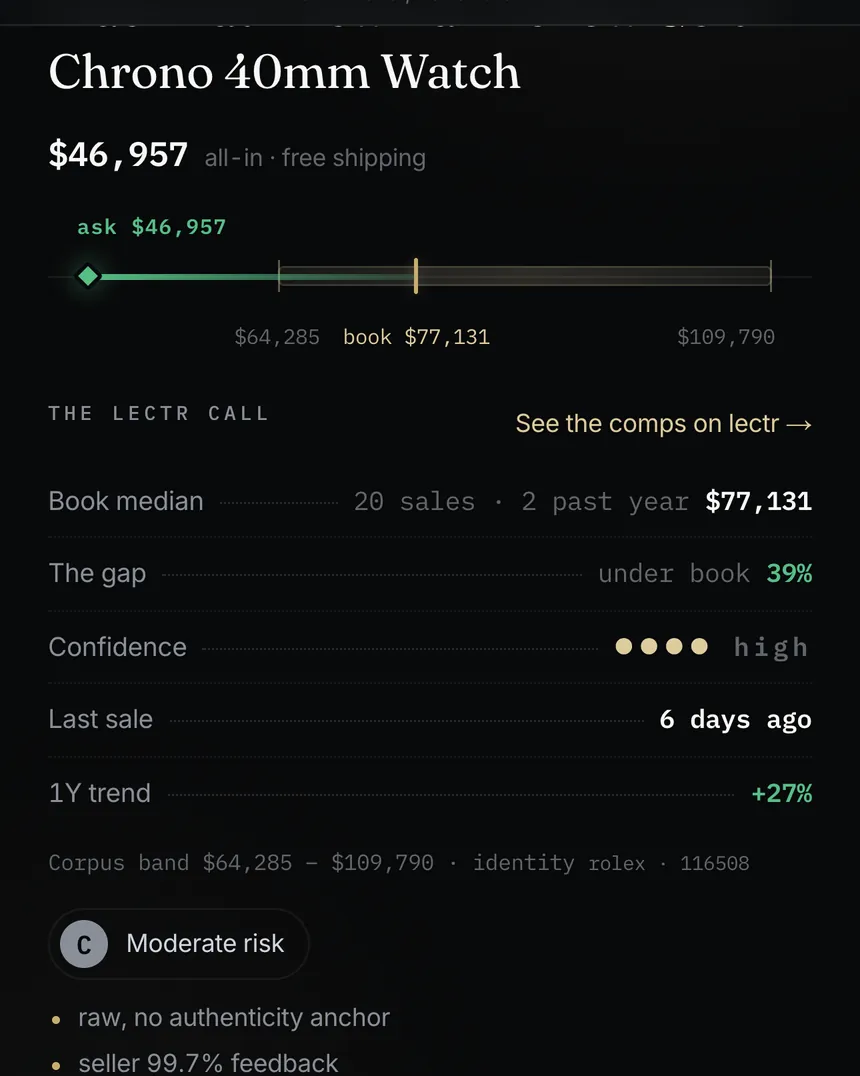
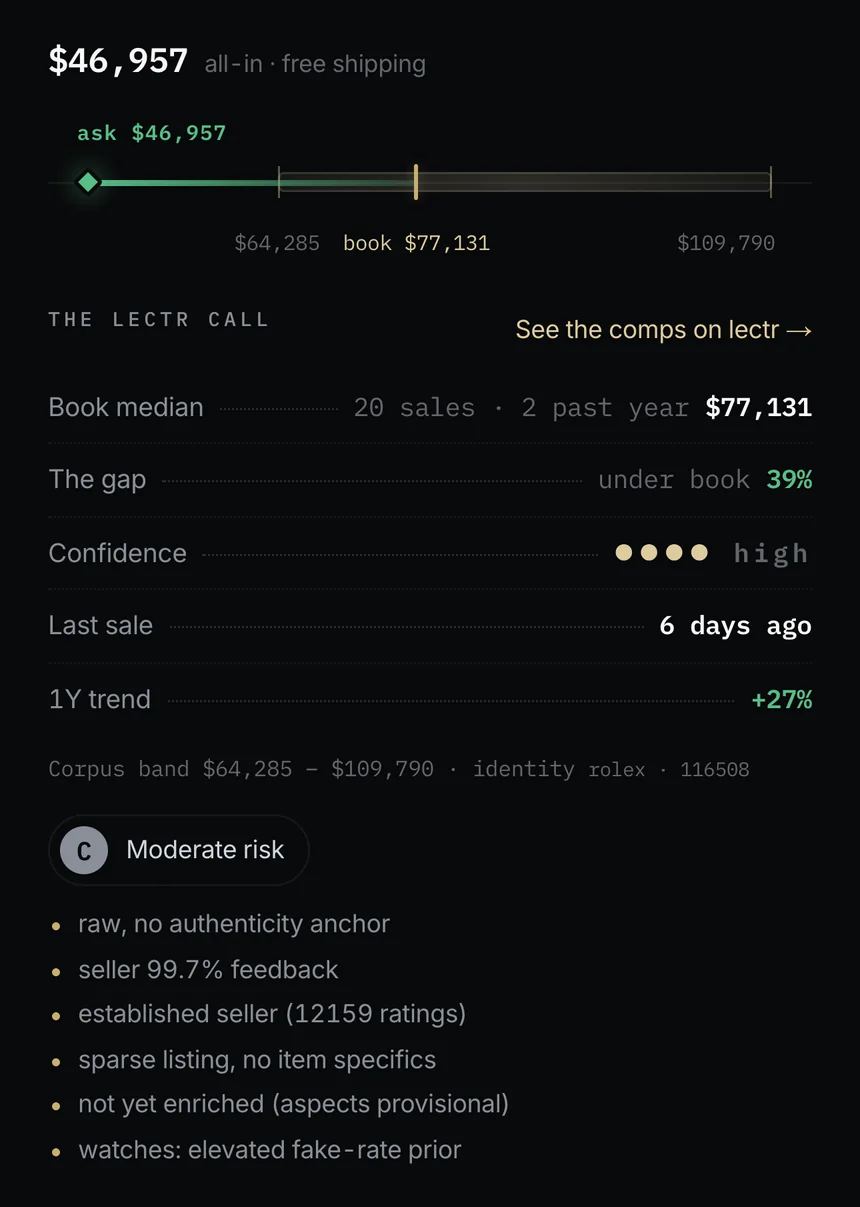
v3b fin-new: Stilwell Farms and Starling on the plate grammar
farms: hero plate (one farm at four dates, native pixels), every game picture a --col/--wide plate on the game's dark ground at whole pixel multiples, no seam overlay, each image once, player 4x/3x/2x aligned to the column, 44px+ touch controls, section chip put away while the ROM runs, the call with spec rows.
starling: deal, tape and phone plates recaptured from the Nov 14 public snapshot and cropped on clean boundaries, one plate rhythm, captions bound, comma numerals loosened, spec rows under the call.

diff --git a/farms.html b/farms.html
@@ -36,8 +36,8 @@
 <main id="main" class="page cs case farms">
   <div class="mhead rv"><canvas class="matrix" data-text="Stilwell Farms" data-src="assets/farms.svg" aria-label="A cartridge, a handheld and three sprouts, drawn in the line screen" role="img"></canvas></div>
   <p class="eyebrow rv"><a href="digital.html">Digital</a> · <a href="https://github.com/stilwellc/stilwell-farms" target="_blank" rel="noopener">Stilwell Farms on GitHub ↗</a></p>
-  <h1 class="display rv d1">A farm that’s yours to design,<br> on a Game Boy Color cartridge.</h1>
-  <p class="lede rv d2">Stilwell Farms is an original world-building farm game for the Game Boy Color, written in C with GBDK-2020 and made for the ModRetro Chromatic.</p>
+  <h1 class="display rv d1">A farm that’s yours to design,<br> on a Game&nbsp;Boy&nbsp;Color cartridge.</h1>
+  <p class="lede rv d2">Stilwell Farms is an original world-building farm game for the Game&nbsp;Boy&nbsp;Color, written in C with GBDK-2020 and made for the ModRetro Chromatic.</p>
 
   <div class="facts rv d3">
     <div><div class="n">64</div><div class="l">plots to buy<span class="sub">one 64 × <span class="nw">64-tile</span> valley</span></div></div>
@@ -46,13 +46,15 @@
     <div><div class="n">69</div><div class="l">scripted tests<span class="sub">the ROM, played headless</span></div></div>
   </div>
 
+  <figure class="plate wide px rv d3"><div class="pxb one"><picture><source media="(min-width: 1056px)" srcset="assets/farms/hero.webp" width="928" height="568"><img src="assets/farms/hero-phone.webp" width="320" height="400" alt="The same farm from above at four points: an overgrown shack on day 1, the first radishes and strawberries on spring 5, a big house, a windmill and fenced fields on summer 9, and rows of pumpkins on fall 11" decoding="async"></picture></div><figcaption><span class="nw">One farm ·</span> <span class="nw">day 1, spring 5,</span> <span class="nw">summer 9, fall 11</span></figcaption></figure>
+
   <section class="sec" id="game">
     <div class="k">the game</div>
     <div>
       <h2>Clear it, plant it, build it, then build up the town.</h2>
-      <p>Grandpa left you an overgrown farm in the middle of a valley. You clear it, plant fourteen crops across four seasons, raise cows, hens and sheep, put every building, fence and path where you want it, and buy the valley one plot at a time.</p>
-      <figure class="gbc" id="gbc" data-rom="assets/farms/stilwell_farms.gbc" data-core="assets/vendor/binjgb/binjgb.js">
-        <div class="gbc-screen" id="gbc-screen">
+      <p>Grandpa left you an overgrown farm in the middle of a valley. You clear it, plant fourteen crops across four seasons, raise cows, hens and sheep, put every building, fence and path where you want it, and buy the valley one plot at a&nbsp;time.</p>
+      <figure class="plate px gbc" id="gbc" data-rom="assets/farms/stilwell_farms.gbc" data-core="assets/vendor/binjgb/binjgb.js">
+        <div class="pxb one gbc-screen" id="gbc-screen">
           <img class="gbc-poster" src="assets/farms/poster.png" width="160" height="144" alt="The Stilwell Farms title screen: a farmhouse, a red barn and a row of crops under a wooden sign">
           <canvas id="gbc-canvas" width="160" height="144" aria-label="Stilwell Farms, running" role="img" hidden></canvas>
           <button class="pill solid gbc-play" id="gbc-play" type="button">Play it here</button>
@@ -62,10 +64,8 @@
           <div class="gbc-ab"><button type="button" data-joy="B" aria-label="B">B</button><button type="button" data-joy="A" aria-label="A">A</button></div>
           <div class="gbc-ss"><button type="button" data-joy="select">Select</button><button type="button" data-joy="start">Start</button></div>
         </div>
-        <div class="gbc-bar">
-          <ul class="gbc-keys" aria-label="Keyboard controls"><li><kbd>←</kbd><kbd>↑</kbd><kbd>↓</kbd><kbd>→</kbd><span>D-pad</span></li><li><kbd>X</kbd><span>A</span></li><li><kbd>Z</kbd><span>B</span></li><li><kbd>Enter</kbd><span>Start</span></li><li><kbd>Shift</kbd><span>Select</span></li></ul>
-        </div>
-        <figcaption><span class="t"><span id="gbc-state" aria-live="polite">The released ROM, in the page</span> · saves stay in this browser</span><span class="gbc-ctl" id="gbc-ctl" hidden><button class="pill" id="gbc-pause" type="button" aria-pressed="false">Pause</button><button class="pill" id="gbc-mute" type="button" aria-pressed="true">Sound</button></span></figcaption>
+        <figcaption><span class="t"><span class="nw"><span id="gbc-state" aria-live="polite">The released ROM, in the page</span> ·</span> <span class="nw">saves stay in this browser</span></span><span class="gbc-ctl" id="gbc-ctl" hidden><button class="pill" id="gbc-pause" type="button" aria-pressed="false">Pause</button><button class="pill" id="gbc-mute" type="button" aria-pressed="true">Sound</button></span></figcaption>
+        <ul class="gbc-keys" aria-label="Keyboard controls"><li><kbd>←</kbd><kbd>↑</kbd><kbd>↓</kbd><kbd>→</kbd><span>D-pad</span></li><li><kbd>X</kbd><span>A</span></li><li><kbd>Z</kbd><span>B</span></li><li><kbd>Enter</kbd><span>Start</span></li><li><kbd>Shift</kbd><span>Select</span></li></ul>
       </figure>
     </div>
   </section>
@@ -75,13 +75,16 @@
     <div>
       <h2>64 plots of woods, lakes, marsh, quarries and a river.</h2>
       <p>The farm is the middle of the valley. Every plot is for sale, from a rope line and a sign or from the valley map, which shows each plot by what grows on it.</p>
-      <figure class="px one"><img class="soft" src="assets/farms/maturity.webp" width="576" height="576" alt="The whole valley from above: an overgrown shack on day 1, the first fields in spring, a built-up farm in summer, pumpkins in fall, then the same farm after dark" loading="lazy"><figcaption>One farm · day 1 to fall 11, then after dark</figcaption></figure>
       <p>The design tools work like drawing. Hold A and walk to lay a path or a fence line in one stroke; SELECT swaps to the eraser and the build menu has undo. A swatch page recolours every roof, plank and stone on the farm, and a blueprint copies a corner and stamps it down anywhere, previewed as a ghost first.</p>
-      <div class="pxgrid">
-        <figure class="px"><img src="assets/farms/farming.webp" width="160" height="144" alt="Tilling, watering and sowing radishes, sleeping, then harvesting" loading="lazy"><figcaption>Till · water · sow · harvest</figcaption></figure>
-        <figure class="px"><img src="assets/farms/design.webp" width="160" height="144" alt="Recolouring roofs, painting a brick path, erasing a fence, undoing it and stamping a blueprint" loading="lazy"><figcaption>Colours · eraser · undo · blueprints</figcaption></figure>
-        <figure class="px"><img src="assets/farms/valley.webp" width="160" height="144" alt="The valley map page, with a plot across the river being bought" loading="lazy"><figcaption>The valley map</figcaption></figure>
-      </div>
+      <figure class="plate px">
+        <div class="pxb">
+          <img src="assets/farms/farming.webp" width="160" height="144" alt="Tilling, watering and sowing radishes, sleeping, then harvesting" loading="lazy">
+          <img src="assets/farms/building.webp" width="160" height="144" alt="Placing a windmill from its ghost, painting a picket fence and flowers, digging a pond" loading="lazy">
+          <img src="assets/farms/design.webp" width="160" height="144" alt="Recolouring roofs, painting a brick path, erasing a fence, undoing it and stamping a blueprint" loading="lazy">
+          <img src="assets/farms/valley.webp" width="160" height="144" alt="The valley map page, with a plot across the river being bought" loading="lazy">
+        </div>
+        <figcaption><span class="nw">Farming ·</span> <span class="nw">building ·</span> <span class="nw">the design tools ·</span> <span class="nw">the valley map</span></figcaption>
+      </figure>
       <ul>
         <li><span>Farming</span><span class="v">14 crops · 4 fruit trees · sprinklers</span></li>
         <li><span>Animals</span><span class="v">cows · hens · sheep · breeds and breeding</span></li>
@@ -94,19 +97,26 @@
     <div class="k">the town</div>
     <div>
       <h2>Eight businesses, six townsfolk, four festivals.</h2>
-      <p>The road south leads to a town. A boarded-up storefront becomes a Bakery, a Juice Bar, a Creamery or a Florist, stocked with what the farm grows; Market Street adds lots for a Brewery, a Winery, a Restaurant and an Inn. Six townsfolk keep daily routines and 24 heart scenes, every season has a festival minigame, and six restoration projects change the town for good.</p>
-      <div class="pxgrid">
-        <figure class="px"><img src="assets/farms/invest.webp" width="160" height="144" alt="Restyling a storefront, funding Square Paving, opening Market Street and building a brewery" loading="lazy"><figcaption>Storefronts · Market Street</figcaption></figure>
-        <figure class="px"><img src="assets/farms/festivals.webp" width="160" height="144" alt="An egg hunt, a koi derby, giant produce judging and a snowball fight" loading="lazy"><figcaption>A festival every season</figcaption></figure>
-        <figure class="px"><img src="assets/farms/mine.webp" width="160" height="144" alt="Breaking rocks in the mine, a ladder down, the lift to floor 20 and a ruby" loading="lazy"><figcaption>The mine · 20 floors</figcaption></figure>
-      </div>
+      <p>The road south leads to a town. A boarded-up storefront becomes a Bakery, a Juice Bar, a Creamery or a Florist, stocked with what the farm grows; Market Street adds lots for a Brewery, a Winery, a Restaurant and an Inn. Six townsfolk keep daily routines and 24 heart scenes, every season has a festival minigame, and six restoration projects change the town for&nbsp;good.</p>
+      <figure class="plate px">
+        <div class="pxb">
+          <img src="assets/farms/invest.webp" width="160" height="144" alt="Restyling a storefront, funding Square Paving, opening Market Street and building a brewery" loading="lazy">
+          <img src="assets/farms/townlife.webp" width="160" height="144" alt="Townsfolk walking to lunch, greetings, and Rosa’s first heart event" loading="lazy">
+          <img src="assets/farms/festivals.webp" width="160" height="144" alt="An egg hunt, a koi derby, giant produce judging and a snowball fight" loading="lazy">
+          <img src="assets/farms/mine.webp" width="160" height="144" alt="Breaking rocks in the mine, a ladder down, the lift to floor 20 and a ruby" loading="lazy">
+        </div>
+        <figcaption><span class="nw">Storefronts ·</span> <span class="nw">townsfolk ·</span> <span class="nw">festivals ·</span> <span class="nw">the mine</span></figcaption>
+      </figure>
       <p>The house, every farm building and every storefront can be rebuilt in one of four styles.</p>
-      <div class="pxgrid styles">
-        <figure class="px"><img src="assets/farms/style-classic.png" width="160" height="74" alt="A classic farmhouse with a red tile roof beside a red barn" loading="lazy"><figcaption>Classic</figcaption></figure>
-        <figure class="px"><img src="assets/farms/style-modern.png" width="160" height="74" alt="A modern house in dark steel and glass beside a dark barn with a white roofline" loading="lazy"><figcaption>Modern</figcaption></figure>
-        <figure class="px"><img src="assets/farms/style-cabin.png" width="160" height="74" alt="A log cabin with lit windows and a green roof beside a log barn" loading="lazy"><figcaption>Log Cabin</figcaption></figure>
-        <figure class="px"><img src="assets/farms/style-cottage.png" width="160" height="74" alt="A thatched cottage with a flower garden beside a thatched stone barn" loading="lazy"><figcaption>Storybook Cottage</figcaption></figure>
-      </div>
+      <figure class="plate px">
+        <div class="pxb styles">
+          <img src="assets/farms/style-classic.png" width="160" height="74" alt="A classic farmhouse with a red tile roof beside a red barn" loading="lazy">
+          <img src="assets/farms/style-modern.png" width="160" height="74" alt="A modern house in dark steel and glass beside a dark barn with a white roofline" loading="lazy">
+          <img src="assets/farms/style-cabin.png" width="160" height="74" alt="A log cabin with lit windows and a green roof beside a log barn" loading="lazy">
+          <img src="assets/farms/style-cottage.png" width="160" height="74" alt="A thatched cottage with a flower garden beside a thatched stone barn" loading="lazy">
+        </div>
+        <figcaption><span class="nw">Classic ·</span> <span class="nw">Modern ·</span> <span class="nw">Log Cabin ·</span> <span class="nw">Storybook Cottage</span></figcaption>
+      </figure>
       <ul>
         <li><span>Farmhands</span><span class="v">Waterer · Harvester · Rancher · Groundskeeper</span></li>
         <li><span>Cooking</span><span class="v">16 dishes</span></li>
@@ -120,12 +130,7 @@
     <div>
       <h2>512 background tiles at a time.</h2>
       <p>The Game Boy Color can show 512 background tiles at once. The game keeps all of its art on the cartridge and streams only the tiles on screen into video memory as the view scrolls, counting references to each one. That is how one cartridge holds hundreds of buildings, crops and decorations.</p>
-      <p>The 64 × 64 world, every cell’s ground, crop and decoration, lives in the cartridge’s battery-backed RAM, so the valley is saved exactly as it was left.</p>
-      <ul>
-        <li><span>Language</span><span class="v">C · GBDK-2020</span></li>
-        <li><span>Cartridge</span><span class="v">MBC5 · 512 KB ROM · 128 KB save RAM</span></li>
-        <li><span>Sound</span><span class="v">custom 4-channel driver · VBlank-driven</span></li>
-      </ul>
+      <p>The 64 × 64 world, every cell’s ground, crop and decoration, lives in the cartridge’s battery-backed RAM, so the valley is saved exactly as it was&nbsp;left.</p>
     </div>
   </section>
 
@@ -142,39 +147,39 @@
     <div>
       <h2>The ROM is played by script.</h2>
       <p>The test suite drives the ROM headless in PyBoy with pathfinding, memory inspection and screenshots, across 69 scripted scenarios. An economy model reads every price, yield and wage from the C sources and simulates three in-game years, and the suite checks the ROM against it.</p>
-      <div class="pxgrid">
-        <figure class="px"><img src="assets/farms/s-title.png" width="160" height="144" alt="The title screen" loading="lazy"><figcaption>Title screen</figcaption></figure>
-        <figure class="px"><img src="assets/farms/s-fall.png" width="160" height="144" alt="The farm in fall: rows of pumpkins beside a farm stand" loading="lazy"><figcaption>The farm in fall</figcaption></figure>
-        <figure class="px"><img src="assets/farms/s-map.png" width="160" height="144" alt="The valley map, 16 of 64 plots owned" loading="lazy"><figcaption>Valley map</figcaption></figure>
-        <figure class="px"><img src="assets/farms/s-market.png" width="160" height="144" alt="Market Street: a restaurant and the library on a paved street" loading="lazy"><figcaption>Market Street</figcaption></figure>
-        <figure class="px"><img src="assets/farms/s-heart.png" width="160" height="144" alt="Rosa speaking in a dialog box with her portrait" loading="lazy"><figcaption>A heart event</figcaption></figure>
-        <figure class="px"><img src="assets/farms/s-barn.png" width="160" height="144" alt="Inside the barn: the panel for Daisy, a Holstein cow" loading="lazy"><figcaption>Inside the barn</figcaption></figure>
-        <figure class="px"><img src="assets/farms/s-mine.png" width="160" height="144" alt="The mine on floor 20, with a ruby just dug up" loading="lazy"><figcaption>The mine, floor 20</figcaption></figure>
-        <figure class="px"><img src="assets/farms/s-beach.png" width="160" height="144" alt="Fishing off the pier at the beach" loading="lazy"><figcaption>The beach</figcaption></figure>
-        <figure class="px"><img src="assets/farms/s-recipes.png" width="160" height="144" alt="The recipe book, open at the omelet" loading="lazy"><figcaption>Recipe book</figcaption></figure>
-        <figure class="px"><img src="assets/farms/s-snowball.png" width="160" height="144" alt="The winter snowball fight minigame" loading="lazy"><figcaption>Snowball fight</figcaption></figure>
-        <figure class="px"><img src="assets/farms/s-colours.png" width="160" height="144" alt="The farm colours page: roofs, wood and stone swatches" loading="lazy"><figcaption>Farm colours</figcaption></figure>
-        <figure class="px"><img src="assets/farms/s-night.png" width="160" height="144" alt="The farm at night" loading="lazy"><figcaption>Night</figcaption></figure>
-      </div>
+      <figure class="plate px">
+        <div class="pxb stills">
+          <img src="assets/farms/s-fall.png" width="160" height="144" alt="The farm in fall: rows of pumpkins beside a farm stand" loading="lazy">
+          <img src="assets/farms/s-barn.png" width="160" height="144" alt="Inside the barn: the panel for Daisy, a Holstein cow" loading="lazy">
+          <img src="assets/farms/s-beach.png" width="160" height="144" alt="Fishing off the pier at the beach" loading="lazy">
+          <img src="assets/farms/s-night.png" width="160" height="144" alt="The farm at night" loading="lazy">
+        </div>
+        <figcaption><span class="nw">The farm in fall ·</span> <span class="nw">the barn ·</span> <span class="nw">the beach ·</span> <span class="nw">night</span></figcaption>
+      </figure>
       <ul>
         <li><span>Tests</span><span class="v">69 scripted scenarios · PyBoy</span></li>
         <li><span>Economy</span><span class="v">3 in-game years simulated</span></li>
-        <li><span>Releases</span><span class="v">v0.1 to v0.3 · Nov 14–15, 2026</span></li>
       </ul>
     </div>
   </section>
 
-  <section class="sec" id="cartridge">
-    <div class="k">the cartridge</div>
+  <section class="sec" id="call">
+    <div class="k">the call</div>
     <div>
       <h2>It runs on the hardware.</h2>
       <div class="cart">
         <img src="assets/farms/cartridge.webp" width="647" height="727" alt="The Stilwell Farms cartridge: a clear purple shell with the title screen on its label" loading="lazy">
         <div>
-          <p>The ROM installs on a ModRetro Chromatic, writes to any MBC5 flash cartridge with RAM and a battery for a Game Boy Color, and opens in any Game Boy Color emulator, such as SameBoy or mGBA.</p>
-          <p class="fine">Stilwell Farms is an independent, original fan project made for the ModRetro Chromatic. It is not affiliated with or endorsed by ModRetro, OpenAI or Nintendo. Game Boy and Game Boy Color are trademarks of Nintendo.</p>
+          <p>The ROM installs on a ModRetro Chromatic, writes to any MBC5 flash cartridge with RAM and a battery for a Game Boy Color, and opens in any Game Boy Color emulator, such as SameBoy or&nbsp;mGBA.</p>
+          <p class="fine">Stilwell Farms is an independent, original fan project made for the ModRetro Chromatic. It is not affiliated with or endorsed by ModRetro, OpenAI or Nintendo. Game Boy and Game Boy Color are trademarks of&nbsp;Nintendo.</p>
         </div>
       </div>
+      <ul>
+        <li><span>Language</span><span class="v">C · GBDK-2020</span></li>
+        <li><span>Cartridge</span><span class="v">MBC5 · 512 KB ROM · 128 KB save RAM</span></li>
+        <li><span>Sound</span><span class="v">custom 4-channel driver · VBlank-driven</span></li>
+        <li><span>Releases</span><span class="v">v0.1 to v0.3 · Nov 14–15, 2026</span></li>
+      </ul>
     </div>
   </section>
 

diff --git a/site.css b/site.css
@@ -1321,79 +1321,81 @@ body .repos .cell .foot { padding-top: 0.5rem; }
 /* ==== /v3:digital ==== */
 
 /* ==== v3:farms ==== */
-/* pixel art is shown at whole multiples of the Game Boy Color's 160 × 144 and never smoothed */
-body .farms figure.px img, body .farms .gbc-poster, body .farms .gbc canvas { image-rendering: pixelated; }
-body .farms .pxgrid { display: grid; grid-template-columns: repeat(3, 320px); justify-content: center; gap: 1.25rem 0; max-width: var(--wide); margin: 2rem auto 0; }
-body .farms .pxgrid.styles { grid-template-columns: repeat(2, 320px); }
-body .farms figure.px { margin: 0; position: relative; text-align: left; }
-body .farms figure.px img { display: block; width: 320px; height: auto; max-width: 100%; }
-body .farms .pxgrid figure.px::after { content: ""; position: absolute; inset: 0 0 auto 0; aspect-ratio: 160 / 144; box-shadow: inset 0 0 0 3px var(--ground); pointer-events: none; }   /* three 320px tiles fill the 960 line exactly, so the gutter is a 6px seam drawn over their edges */
-body .farms .pxgrid.styles figure.px::after { aspect-ratio: 160 / 74; }
-body .farms figure.px figcaption { margin: 0.4rem 0 0; padding: 0 0.75rem 0 3px; font-family: var(--mono); font-size: 11px; letter-spacing: 0.14em; text-transform: uppercase; color: var(--ink-3); }
-body .farms figure.px.one { width: 576px; max-width: 100%; margin: 2rem auto; }
-body .farms figure.px.one img { width: 576px; }
-body .farms .pxgrid + :is(p, ul) { margin-top: 2rem; }
-body .farms .sec p .mono, body .farms .sec p.mono { font-family: var(--mono); font-size: 0.86em; }
-@media (max-width: 1055px) {
-  body .farms .pxgrid { grid-template-columns: repeat(2, 320px); gap: 1.25rem 12px; }
-  body .farms .pxgrid figure.px::after { display: none; }
-}
+/* Stilwell Farms. Every picture of the game is a plate on one of the two widths, 6px corners and the plate hairline;
+   inside it the game sits on its own dark ground at a whole multiple of its pixels, never smoothed, never clipped. */
+body .farms figure.plate.px { max-width: var(--col); margin: 2rem auto 0; }
+body .farms figure.plate.px.wide { max-width: var(--wide); margin-top: clamp(24px, 4vw, 60px); }
+body .farms .pxb { display: grid; grid-template-columns: repeat(2, 320px); justify-content: center; align-items: start; gap: 16px; padding: 24px 0; background: #1B1430; border-radius: var(--r); outline: 1px solid color-mix(in srgb, var(--ink) 9%, transparent); outline-offset: -1px; line-height: 0; }
+body .farms .pxb.one { grid-template-columns: auto; padding: 16px 0; }
+body .farms .pxb picture { display: block; }
+body .farms figure.plate .pxb img, body .farms .pxb canvas { display: block; width: 320px; height: auto; aspect-ratio: auto; object-fit: fill; padding: 0; border: 0; border-radius: 0; outline: 0; background: none; image-rendering: pixelated; }
+body .farms figure.plate .pxb.one picture img { width: 928px; }
+body .farms figure.plate.px figcaption .nw { display: inline; white-space: nowrap; }
+body .farms .sec figure.plate.px + ul { margin-top: 2rem; }
+body .farms .sec p .mono { font-family: var(--mono); font-size: 0.86em; }
+@media (max-width: 1055px) { body .farms figure.plate .pxb.one picture img { width: 640px; } }
 @media (max-width: 719px) {
-  body .farms .pxgrid { grid-template-columns: repeat(2, 160px); }
-  body .farms .pxgrid figure.px img { width: 160px; }
-  body .farms .pxgrid:has(img[src$=".webp"]), body .farms .pxgrid.styles { grid-template-columns: 320px; }
-  body .farms .pxgrid:has(img[src$=".webp"]) figure.px img, body .farms .pxgrid.styles figure.px img { width: 320px; }
-  body .farms figure.px figcaption { letter-spacing: 0.08em; padding-right: 0; }
-  body .farms figure.px.one, body .farms figure.px.one img { width: 288px; }
-  body .farms figure.px.one img { image-rendering: auto; }
+  body .farms h1.display br { display: none; }
+  body .farms .pxb { grid-template-columns: 320px; padding: 17px 0; }
+  body .farms .pxb.stills, body .farms .pxb.styles { grid-template-columns: repeat(2, 160px); gap: 12px; }
+  body .farms figure.plate .pxb.stills img, body .farms figure.plate .pxb.styles img { width: 160px; }
+  body .farms figure.plate .pxb.one picture img { width: 320px; }
 }
-/* the player: the title frame at rest, the running ROM after Play */
-body .farms .gbc { margin: 2rem auto 0; max-width: var(--col); text-align: center; }
+@media (max-width: 355px) {
+  body .farms .pxb, body .farms .pxb.stills, body .farms .pxb.styles { grid-template-columns: 160px; }
+  body .farms figure.plate .pxb img, body .farms figure.plate .pxb.one picture img { width: 160px; }
+}
+/* the player: the title frame at rest, the running ROM after Play. 4× on a desk, 3× in a short window, 2× on a phone */
+body .farms .gbc { text-align: left; }
 body .farms .gbc [hidden] { display: none !important; }
-body .farms .gbc-screen { position: relative; display: inline-block; padding: 12px; border: 1px solid var(--hair-2); border-radius: var(--r); background: var(--ground); line-height: 0; outline: 0; }
-body .farms .gbc-screen img, body .farms .gbc-screen canvas { display: block; width: 480px; height: 432px; }
+body .farms .pxb.gbc-screen { position: relative; padding: 32px 0; }
+body .farms figure.plate .gbc-screen img, body .farms .gbc-screen canvas { width: 640px; height: 576px; }
 body .farms .gbc.on .gbc-poster { display: none; }
-body .farms .gbc.on .gbc-screen:focus { border-color: var(--ink); }
-body .farms .gbc-screen:focus-visible { outline: 0; }
+body .farms .gbc-screen:focus { outline: 1px solid color-mix(in srgb, var(--ink) 9%, transparent); }
+body .farms .gbc.on .gbc-screen:focus-visible { outline: 2px solid var(--sel); outline-offset: 3px; }
 body .farms .gbc.paused canvas { opacity: 0.5; }
-body .farms .gbc-play { position: absolute; left: 50%; top: 31%; transform: translateX(-50%); cursor: pointer; font-family: inherit; line-height: 1; white-space: nowrap; }
+body .farms .gbc-play { position: absolute; left: 50%; top: 34%; transform: translateX(-50%); cursor: pointer; font-family: inherit; line-height: 1; white-space: nowrap; }
 @media (hover: hover) { body .farms .gbc-play:hover { transform: translate(-50%, -1px); } }
 body .farms .gbc-play:disabled { opacity: 0.6; cursor: default; }
 html:not(.js) body .farms .gbc-play { display: none; }
-body .farms .gbc-bar { display: flex; flex-wrap: wrap; align-items: center; justify-content: flex-start; gap: 10px 18px; margin: 12px auto 0; max-width: 506px; }
-body .farms .gbc ul.gbc-keys { display: flex; flex-wrap: wrap; gap: 8px 14px; width: auto; max-width: none; margin: 0; padding: 0; list-style: none; }
+body .farms .gbc figcaption { display: flex; flex-wrap: wrap; align-items: center; justify-content: space-between; gap: 10px 18px; line-height: 1.5; }
+body .farms .gbc-ctl { display: flex; gap: 6px; margin-left: auto; text-transform: none; letter-spacing: 0; }
+body .farms .gbc-ctl .pill { height: 44px; padding: 0 16px; font-size: 13px; }
+body .farms .gbc ul.gbc-keys { display: flex; flex-wrap: wrap; gap: 8px 18px; width: auto; max-width: none; margin: 12px 0 0; padding: 0; list-style: none; }
 body .farms .gbc ul.gbc-keys li { display: flex; align-items: center; gap: 4px; padding: 0; border: 0; font-family: var(--mono); font-size: 11px; letter-spacing: 0.14em; text-transform: uppercase; color: var(--ink-3); }
 body .farms .gbc ul.gbc-keys li span { margin-left: 3px; }
 body .farms .gbc ul.gbc-keys kbd { text-transform: none; letter-spacing: 0; }
-body .farms .gbc-ctl { display: flex; gap: 6px; margin-left: auto; text-transform: none; letter-spacing: 0; }
-body .farms .gbc-ctl .pill { height: 40px; padding: 0 14px; font-size: 13px; }
-body .farms .gbc figcaption { margin: 12px auto 0; max-width: 506px; font-family: var(--mono); font-size: 11px; letter-spacing: 0.14em; text-transform: uppercase; color: var(--ink-3); text-align: left; line-height: 1.5; display: flex; flex-wrap: wrap; align-items: center; justify-content: space-between; gap: 10px 18px; }
 body .farms .gbc-pad { display: none; }
-@media (max-width: 619px) {
-  body .farms h1.display br { display: none; }
-  body .farms .gbc-screen img, body .farms .gbc-screen canvas { width: 320px; height: 288px; }
-  body .farms .gbc-bar, body .farms .gbc figcaption { max-width: 346px; }
+@media (max-width: 1055px), (max-height: 799px) {
+  body .farms .pxb.gbc-screen { padding: 16px 0; }
+  body .farms figure.plate .gbc-screen img, body .farms .gbc-screen canvas { width: 480px; height: 432px; }
 }
+@media (max-width: 719px) {
+  body .farms .pxb.gbc-screen { padding: 17px 0; }
+  body .farms figure.plate .gbc-screen img, body .farms .gbc-screen canvas { width: 320px; height: 288px; }
+}
+@media (max-width: 355px) { body .farms figure.plate .gbc-screen img, body .farms .gbc-screen canvas { width: 160px; height: 144px; } }
 @media (hover: none), (pointer: coarse) {
   body .farms .gbc ul.gbc-keys { display: none; }
-  body .farms .gbc.on .gbc-pad { display: grid; grid-template-columns: 1fr 1fr; align-items: center; gap: 18px 0; max-width: 346px; margin: 18px auto 0; -webkit-user-select: none; user-select: none; -webkit-touch-callout: none; }
-  body .farms .gbc-dpad { position: relative; width: 132px; height: 132px; justify-self: start; touch-action: none; }
+  body .farms .gbc.on .gbc-pad { display: grid; grid-template-columns: 1fr 1fr; align-items: center; gap: 18px 0; margin: 18px 0 0; -webkit-user-select: none; user-select: none; -webkit-touch-callout: none; }
+  body .farms .gbc-dpad { position: relative; width: 144px; height: 144px; justify-self: start; touch-action: none; }
   body .farms .gbc-dpad i { position: absolute; background: var(--ink); border-radius: var(--r); }
-  body .farms .gbc-dpad i:first-child { left: 0; right: 0; top: 44px; height: 44px; }
-  body .farms .gbc-dpad i:last-child { top: 0; bottom: 0; left: 44px; width: 44px; }
+  body .farms .gbc-dpad i:first-child { left: 0; right: 0; top: 48px; height: 48px; }
+  body .farms .gbc-dpad i:last-child { top: 0; bottom: 0; left: 48px; width: 48px; }
   body .farms .gbc-dpad.on i { background: var(--ink-2); }
-  body .farms .gbc-ab { justify-self: end; display: flex; gap: 14px; align-items: flex-end; }
-  body .farms .gbc-ab button { width: 62px; height: 62px; border-radius: 999px; border: 0; background: var(--ink); color: var(--ground); font-family: var(--mono); font-size: 13px; touch-action: none; }
-  body .farms .gbc-ab button[data-joy="A"] { margin-bottom: 26px; }
+  body .farms .gbc-ab { justify-self: end; display: flex; gap: 16px; align-items: flex-end; }
+  body .farms .gbc-ab button { width: 64px; height: 64px; padding: 0; border-radius: 999px; border: 0; background: var(--ink); color: var(--ground); font-family: var(--mono); font-size: 13px; touch-action: none; }
+  body .farms .gbc-ab button[data-joy="A"] { margin-bottom: 28px; }
   body .farms .gbc-ab button.on, body .farms .gbc-ss button.on { background: var(--ink-2); color: var(--ground); }
   body .farms .gbc-ss { grid-column: 1 / -1; display: flex; justify-content: center; gap: 12px; }
-  body .farms .gbc-ss button { height: 40px; padding: 0 18px; border-radius: 999px; border: 1px solid var(--hair-2); background: transparent; color: var(--ink-2); font-family: var(--mono); font-size: 11px; letter-spacing: 0.14em; text-transform: uppercase; touch-action: none; }
+  body .farms .gbc-ss button { height: 44px; min-width: 96px; padding: 0 18px; border-radius: 999px; border: 1px solid var(--hair-2); background: transparent; color: var(--ink-2); font-family: var(--mono); font-size: 11px; letter-spacing: 0.14em; text-transform: uppercase; touch-action: none; }
   body .farms .gbc.on figcaption { margin-top: 18px; }
 }
-/* the cartridge beside its paragraph */
+/* the cartridge beside its paragraph, then the spec rows */
 body .farms .cart { display: grid; grid-template-columns: 216px minmax(0, 1fr); gap: 2rem; align-items: center; max-width: var(--col); margin: 0.5rem auto 0; }
 body .farms .cart img { display: block; width: 216px; height: auto; }
 body .farms .cart p.fine { font-size: 13px; line-height: 1.5; color: var(--ink-3); margin-bottom: 0; }
+body .farms .cart + ul { margin-top: 2rem; }
 @media (max-width: 619px) { body .farms .cart { grid-template-columns: 1fr; gap: 1rem; justify-items: center; } body .farms .cart img { width: 200px; } }
 /* ==== /v3:farms ==== */
 
@@ -1433,3 +1435,11 @@ body .act .gh-led { position: static; display: flex; justify-content: center; ma
 /* wave: the paragraph under the hero's control row keeps the plate's 2rem */
 body main.cs .wave-ctl + p.cap-note { margin-top: 2rem; }
 /* ==== /v3:integration ==== */
+
+/* ==== v3b:fin-new ==== */
+/* Starling: comma'd numerals need air at display tracking; a plate keeps one distance from the block above it, list or paragraph */
+body .case .facts .n.c { letter-spacing: 0.02em; }
+body .case .sec ul + figure.plate.wide { margin-top: 38px; }
+/* Stilwell Farms: while the ROM runs, the floating section chip is put away so it never sits on the touch controls */
+body:has(.farms .gbc.on:not(.paused)) .sec-chip, body:has(.farms .gbc.on:not(.paused)) .sec-menu { display: none !important; }
+/* ==== /v3b:fin-new ==== */

diff --git a/starling.html b/starling.html
@@ -41,12 +41,12 @@
 
   <div class="facts rv d3">
     <div><div class="n">199</div><div class="l">on the board<span class="sub">deals, as of Nov 14, 2026</span></div></div>
-    <div><div class="n">5,691</div><div class="l">listings<span class="sub">evaluated in that run</span></div></div>
-    <div><div class="n">3,148</div><div class="l">on the tape<span class="sub">calls, each frozen when surfaced</span></div></div>
-    <div><div class="n">5,000</div><div class="l">calls a day<span class="sub">the eBay Browse API budget</span></div></div>
+    <div><div class="n c">5,691</div><div class="l">listings<span class="sub">evaluated in that run</span></div></div>
+    <div><div class="n c">3,148</div><div class="l">on the tape<span class="sub">calls, each frozen when surfaced</span></div></div>
+    <div><div class="n c">5,000</div><div class="l">calls a day<span class="sub">the eBay Browse API budget</span></div></div>
   </div>
 
-  <figure class="plate wide rv d3"><picture><source media="(max-width: 600px)" srcset="assets/starling/board-phone.webp" width="860" height="1076"><img src="assets/starling/board.webp" width="1920" height="1200" alt="The Starling board: the top deal is a Rolex Daytona asking $46,957 against a $77,131 book median from 20 sales, shown $30,174 under the book with a moderate risk grade" loading="lazy" decoding="async"></picture><figcaption>The board · run locally from the public repo · data of Nov 14, 2026</figcaption></figure>
+  <figure class="plate wide rv d3"><picture><source media="(max-width: 600px)" srcset="assets/starling/board-phone.webp" width="860" height="1243"><img src="assets/starling/board.webp" width="1920" height="1200" alt="The Starling board: the top deal is a Rolex Daytona asking $46,957 against a $77,131 book median from 20 sales, shown $30,174 under the book with a moderate risk grade" loading="lazy" decoding="async"></picture><figcaption><span class="nw">The board</span><i class="sp"> · </i><span class="nw">run locally from the public repo</span><i class="sp"> · </i><span class="nw">data of Nov&nbsp;14,&nbsp;2026</span></figcaption></figure>
 
   <section class="sec" id="problem">
     <div class="k">the problem</div>
@@ -70,7 +70,7 @@
         <li><span>The board is written as one JSON file and committed to the repo.</span><span class="v">publish</span></li>
         <li><span>Every surfaced deal is appended to a ledger and later resolved to its outcome.</span><span class="v">receipts</span></li>
       </ul>
-      <figure class="plate wide"><picture><source media="(max-width: 600px)" srcset="assets/starling/deal-phone.webp" width="860" height="1076"><img src="assets/starling/deal.webp" width="1920" height="1333" alt="A Starling deal page: the asking price marked on the book’s price range, the book median from 20 sales, the gap, confidence, last sale and one-year trend, and the reasons behind a moderate risk grade" loading="lazy" decoding="async"></picture><figcaption>One deal · the evidence and the reasons behind its risk grade</figcaption></figure>
+      <figure class="plate wide"><picture><source media="(max-width: 600px)" srcset="assets/starling/deal-phone.webp" width="860" height="1207"><img src="assets/starling/deal.webp" width="1920" height="1460" alt="A Starling deal page: the asking price marked on the book’s price range, the book median from 20 sales, the gap, confidence, last sale and one-year trend, and the reasons behind a moderate risk grade" loading="lazy" decoding="async"></picture><figcaption><span class="nw">One deal</span><i class="sp"> · </i><span class="nw">the evidence and the reasons</span> <span class="nw">behind its risk grade</span></figcaption></figure>
     </div>
   </section>
 
@@ -93,7 +93,7 @@
     <div>
       <h2>Every call is kept.</h2>
       <p>Book value, depth and risk are frozen the moment a deal is surfaced and never rewritten. When a listing leaves Buy It Now, the outcome is recorded against the call.</p>
-      <figure class="plate wide"><picture><source media="(max-width: 600px)" srcset="assets/starling/tape-phone.webp" width="860" height="1076"><img src="assets/starling/tape.webp" width="1920" height="1200" alt="The Starling tape: 3,148 calls logged, 1,375 still live on Buy It Now, and a table of calls with date, vertical, identity, depth at surface, book value, risk grade and outcome" loading="lazy" decoding="async"></picture><figcaption>The tape · 3,148 calls logged · Nov 14, 2026</figcaption></figure>
+      <figure class="plate wide"><picture><source media="(max-width: 600px)" srcset="assets/starling/tape-phone.webp" width="860" height="1312"><img src="assets/starling/tape.webp" width="1920" height="1171" alt="The Starling tape: 3,148 calls logged, 1,375 still live on Buy It Now, and a table of calls with date, vertical, identity, depth at surface, book value, risk grade and outcome" loading="lazy" decoding="async"></picture><figcaption><span class="nw">The tape</span><i class="sp"> · </i><span class="nw">3,148 calls logged</span><i class="sp"> · </i><span class="nw">Nov&nbsp;14,&nbsp;2026</span></figcaption></figure>
     </div>
   </section>
 
@@ -102,6 +102,11 @@
     <div>
       <h2>No exact identity, no deal.</h2>
       <p>A deal exists only when its listing pins to an exact key in the value book. The value book stays in private storage and the board publishes book numbers only for the deals it shows. The deployed board sits behind a PIN; the source is public.</p>
+      <ul>
+        <li><span>Stack</span><span class="v">TypeScript · Next.js static export</span></li>
+        <li><span>Runs on</span><span class="v">GitHub Actions · Cloudflare Pages + R2</span></li>
+        <li><span>Source</span><span class="v">public on GitHub</span></li>
+      </ul>
     </div>
   </section>
 
